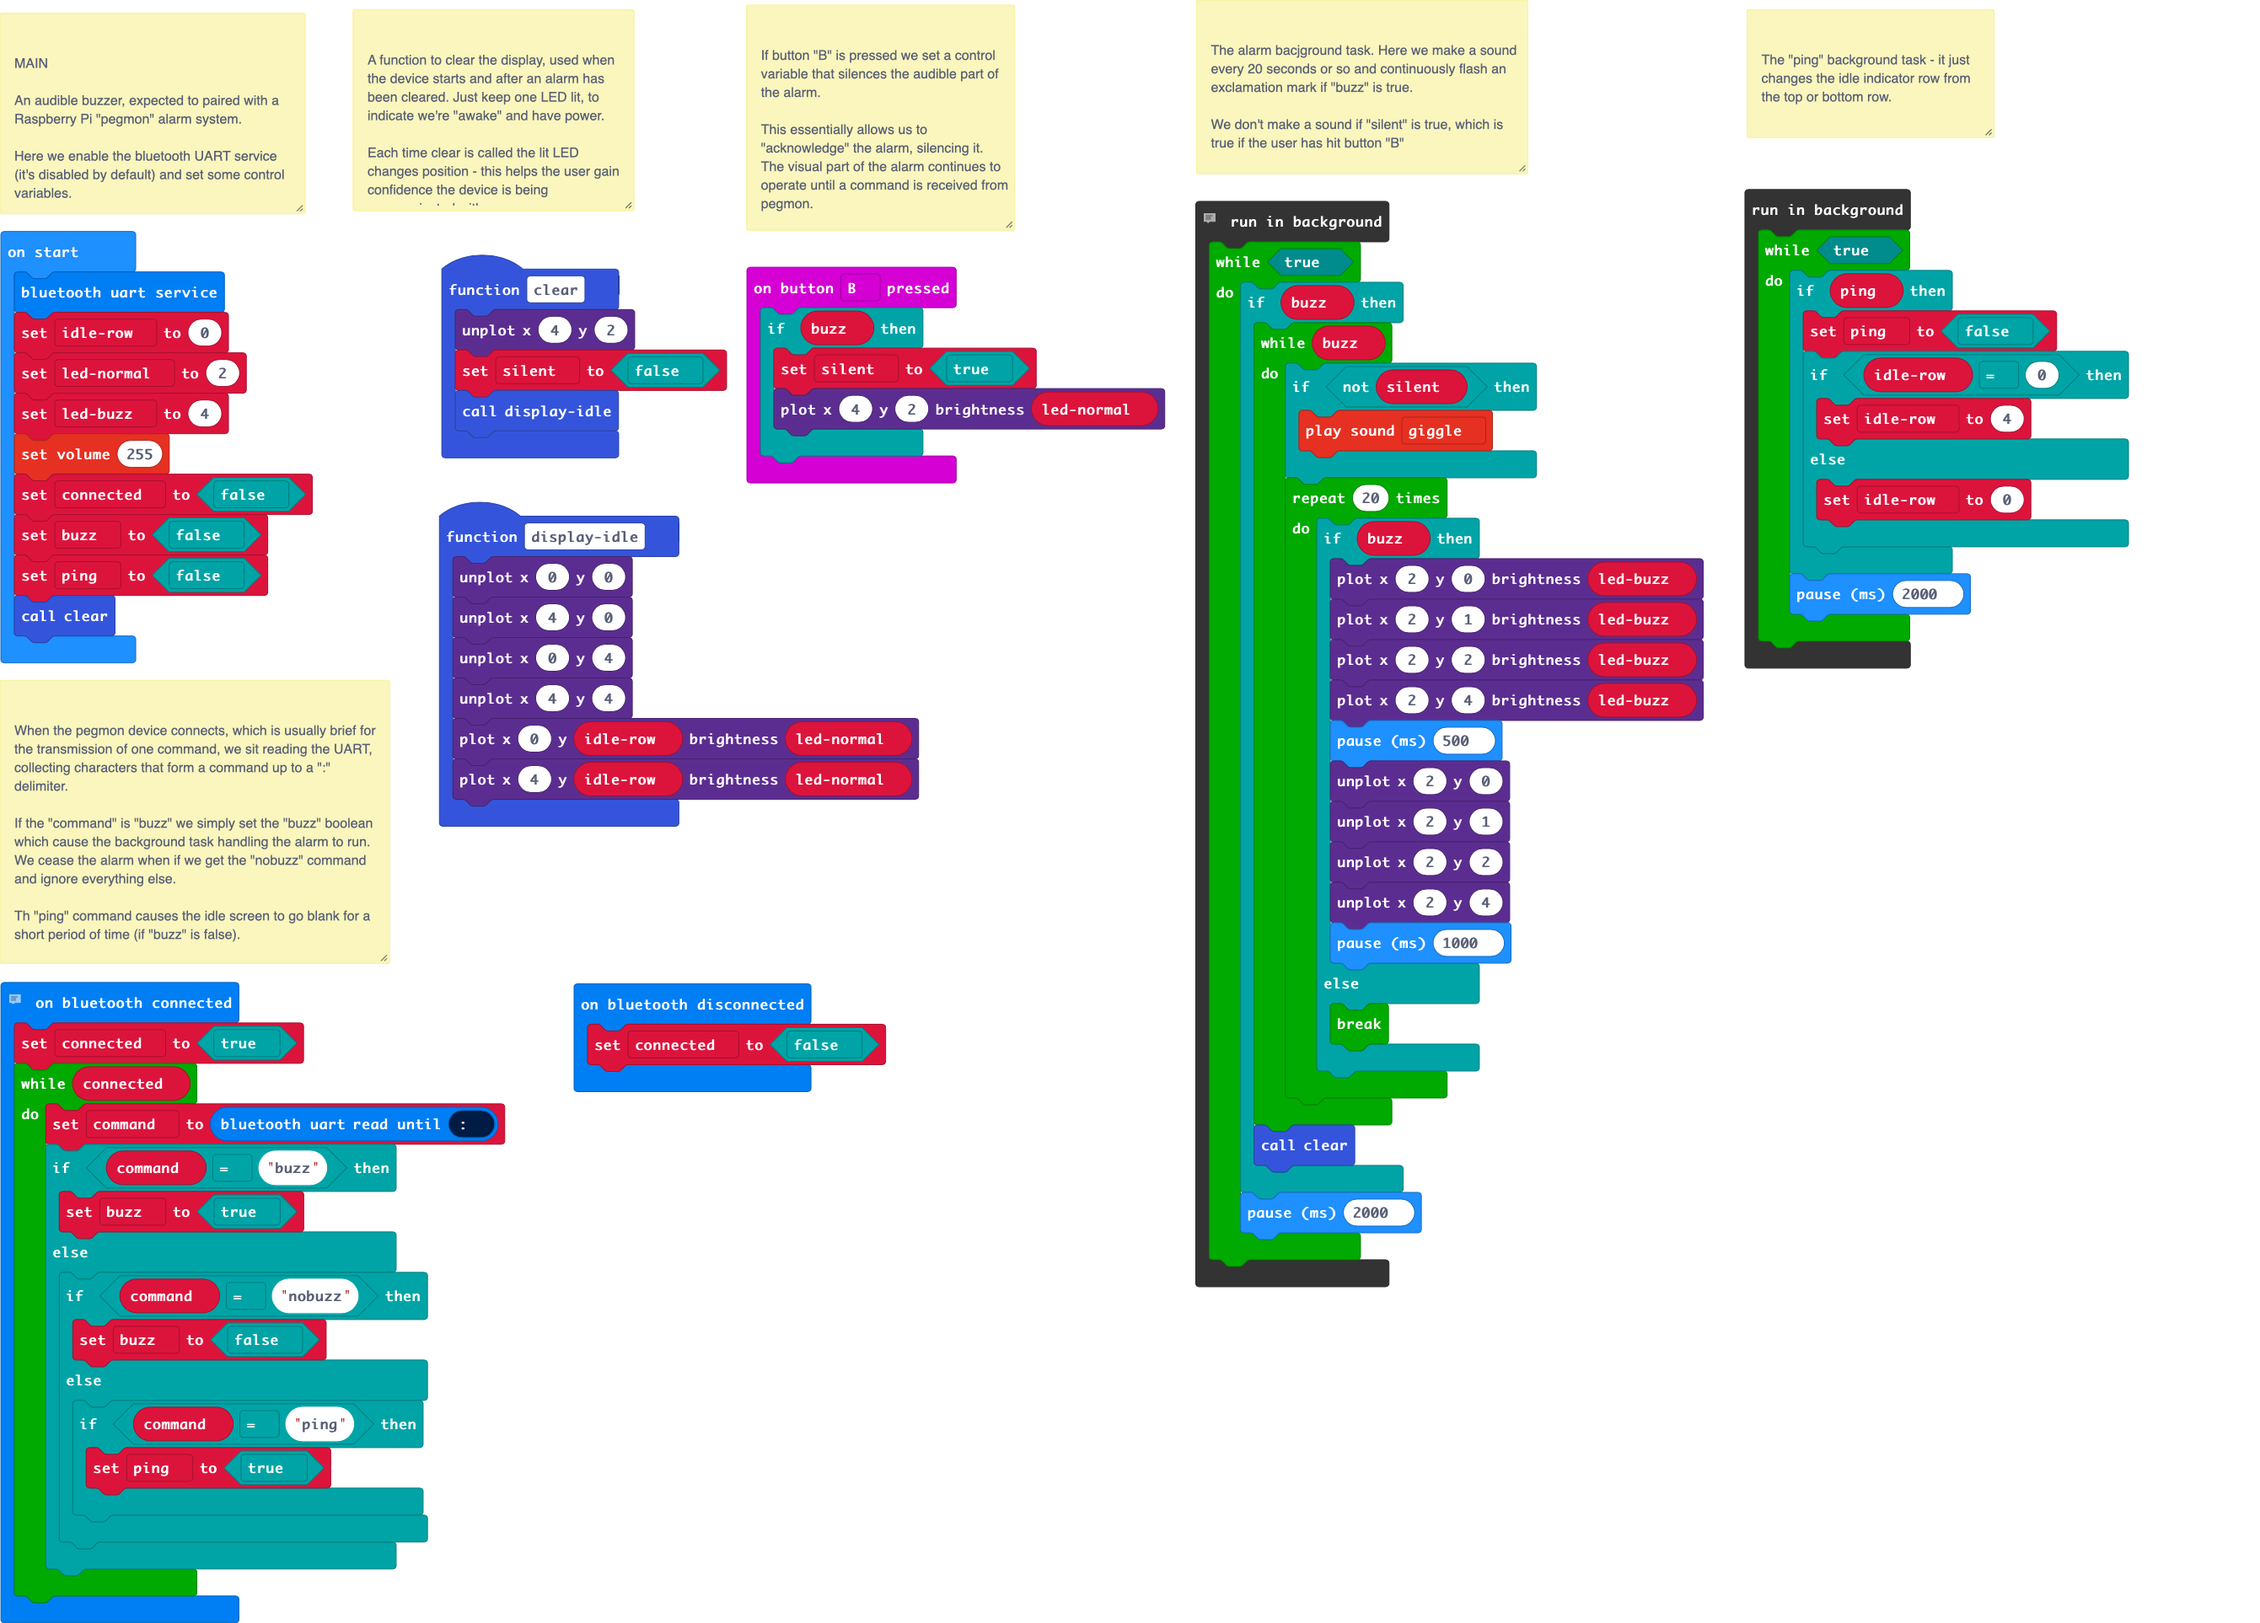
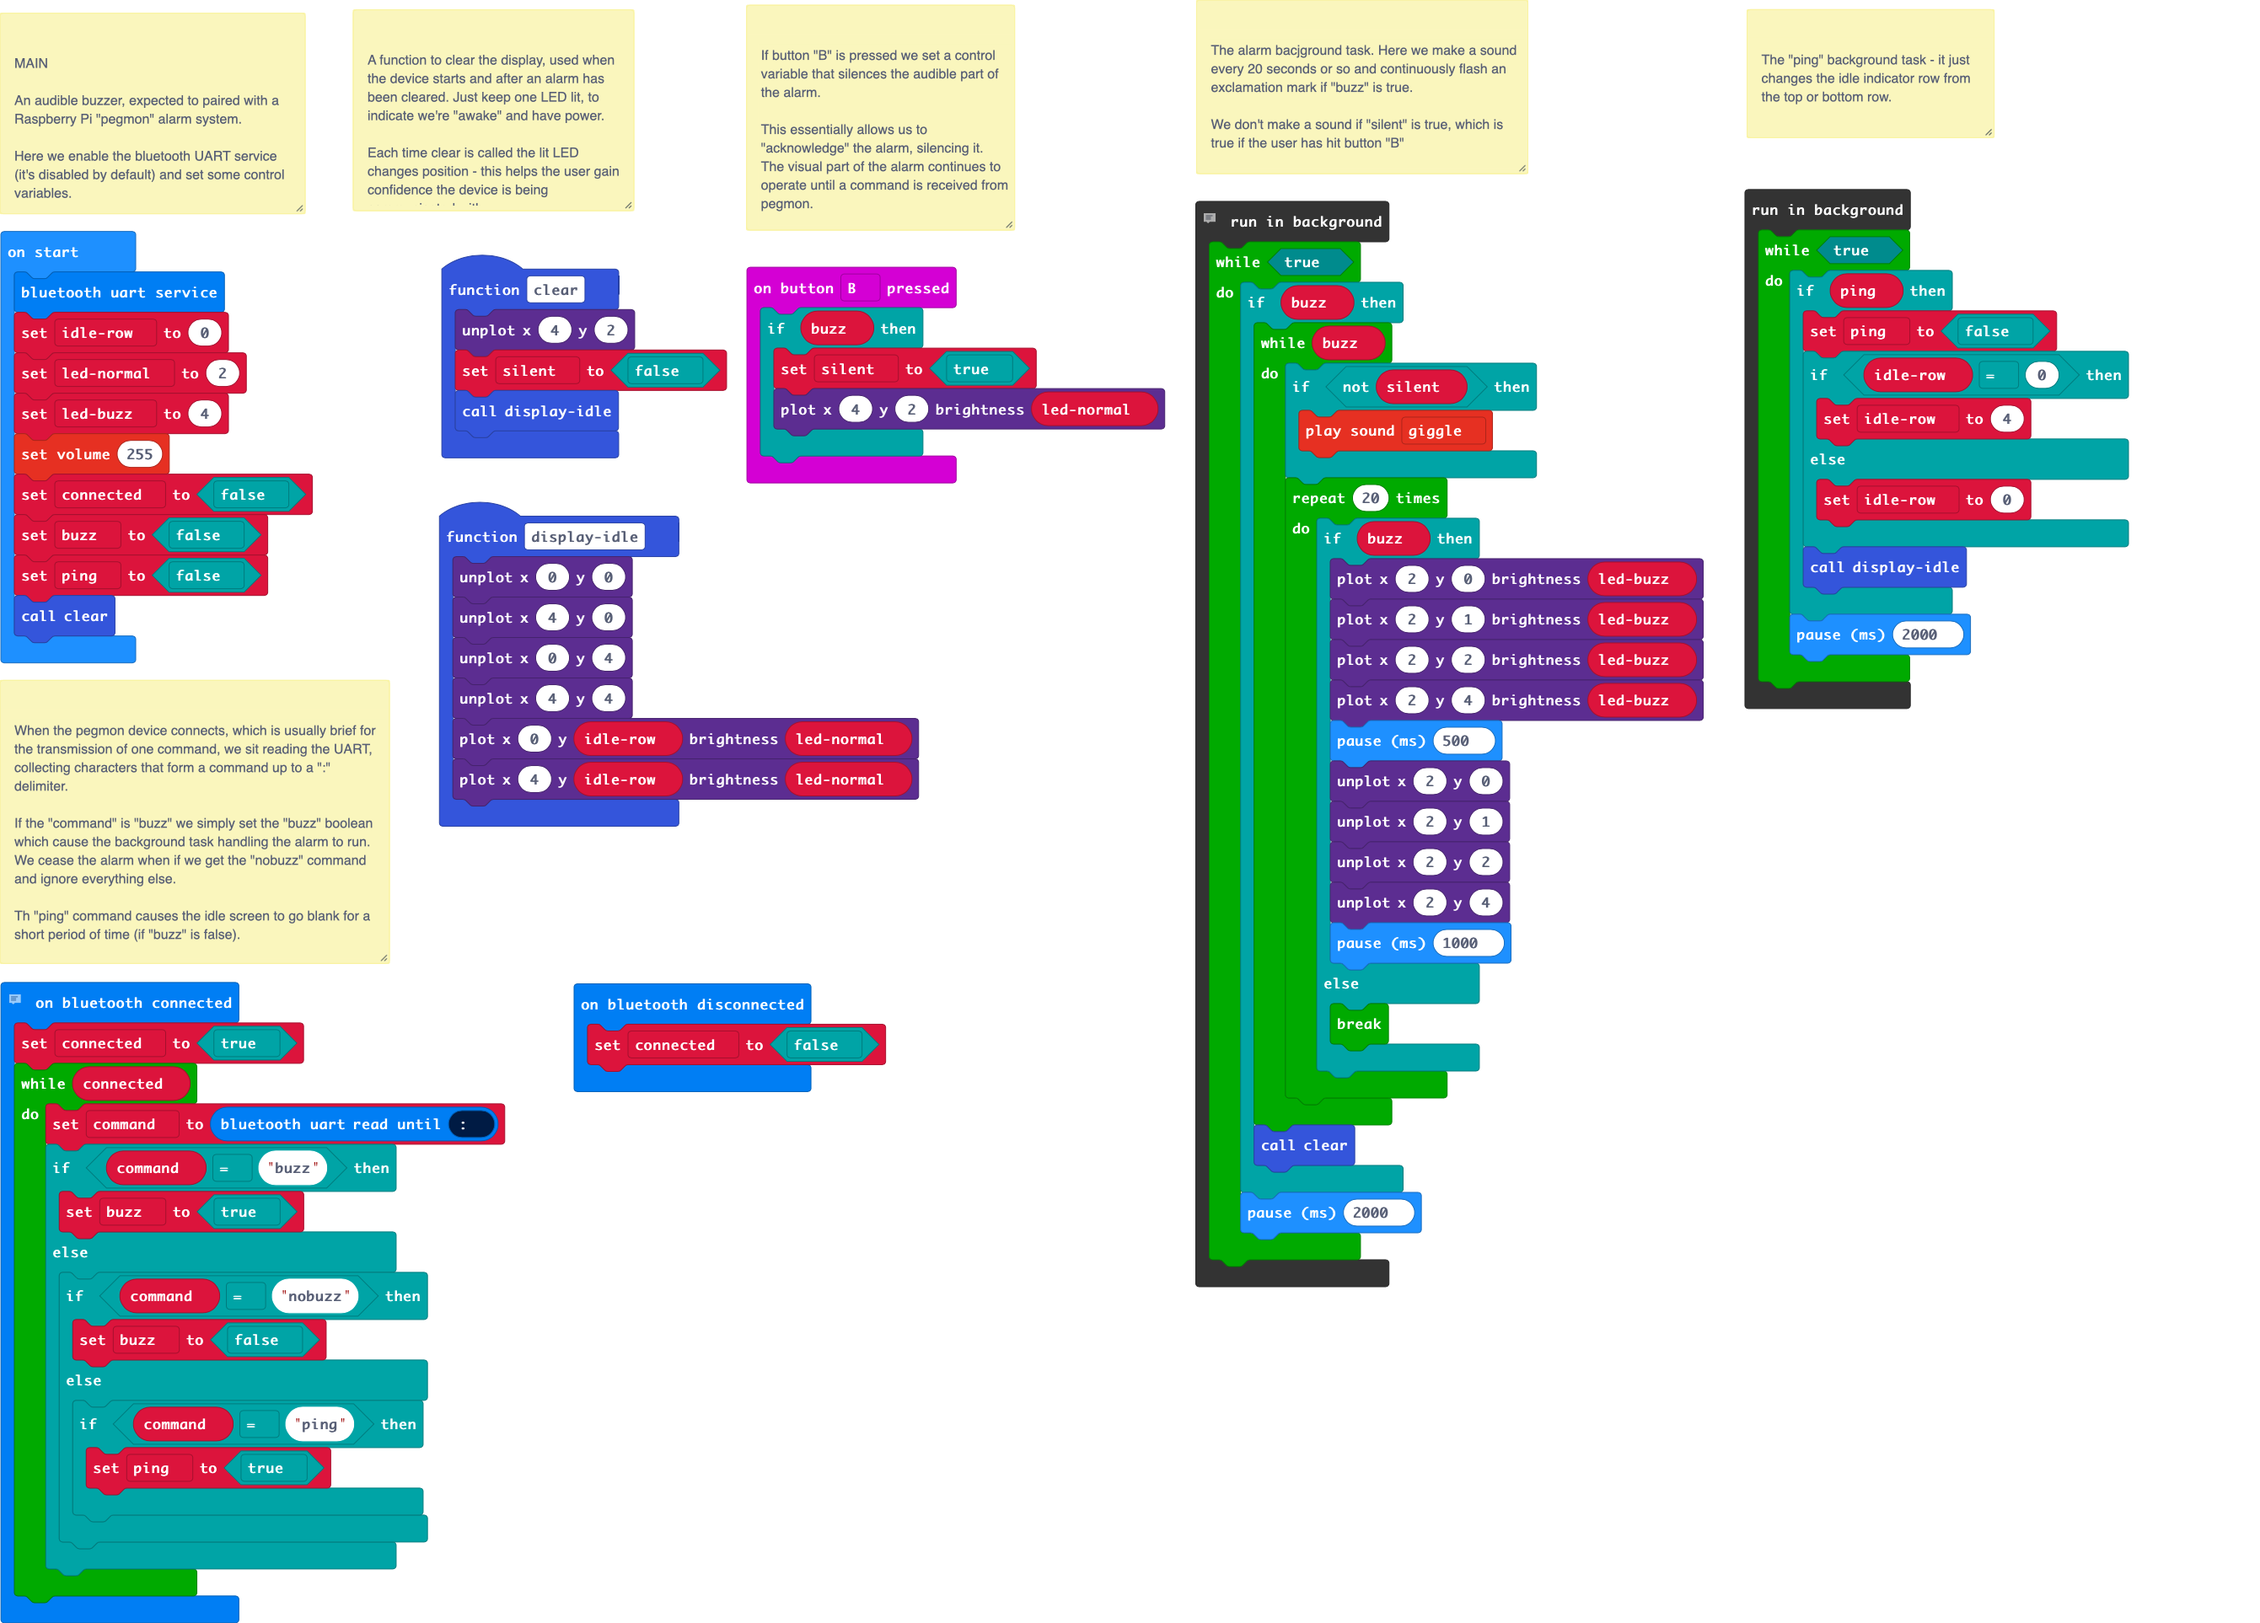
Fixes ping toggle

Changed region(s): [[0.774, 0.3115, 0.8978, 0.4361]]

diff --git a/main.ts b/main.ts
@@ -133,6 +133,7 @@ control.inBackground(function () {
             } else {
                 idlerow = 0
             }
+            displayidle()
         }
         basic.pause(2000)
     }
